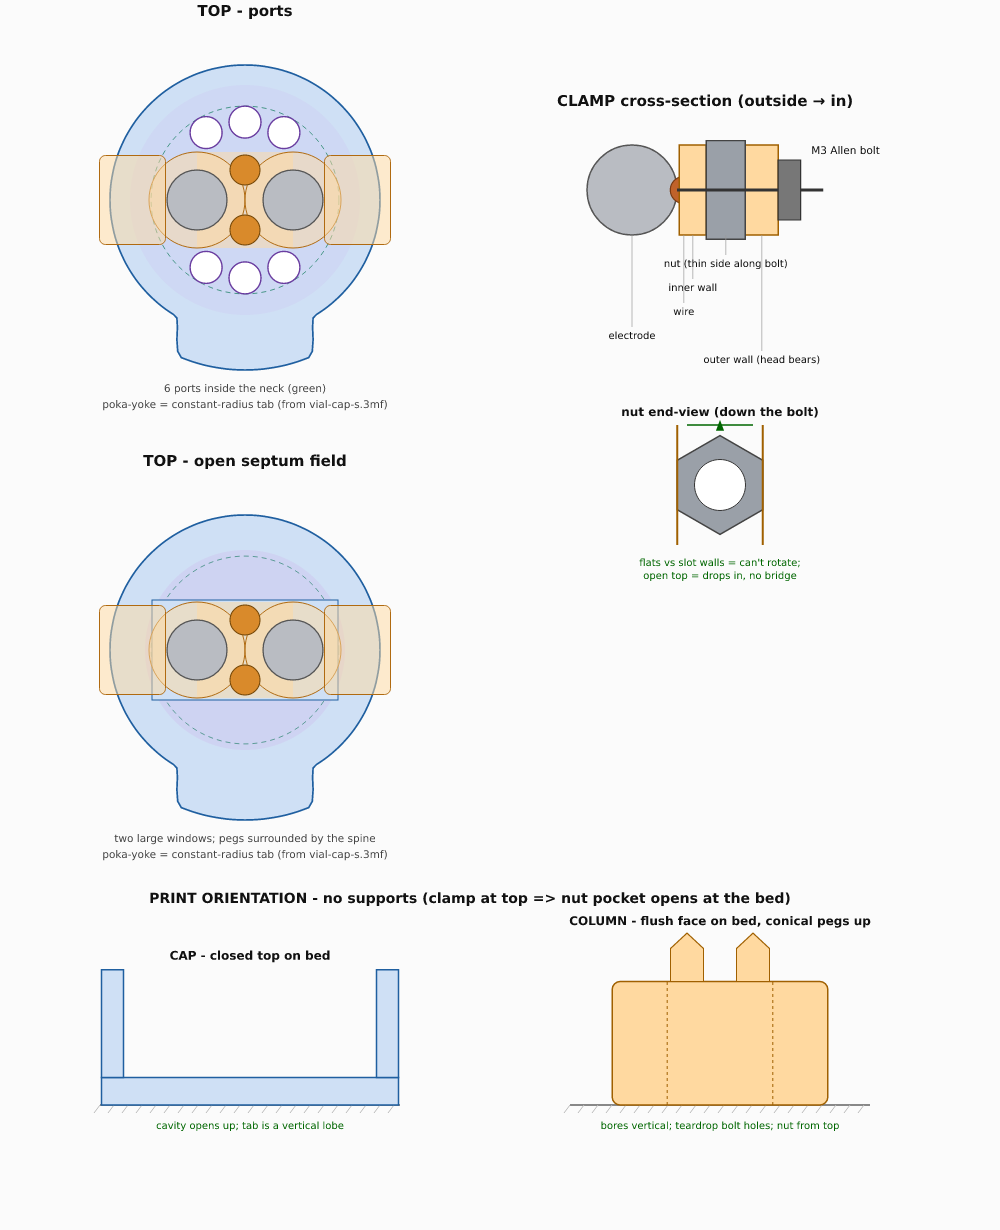
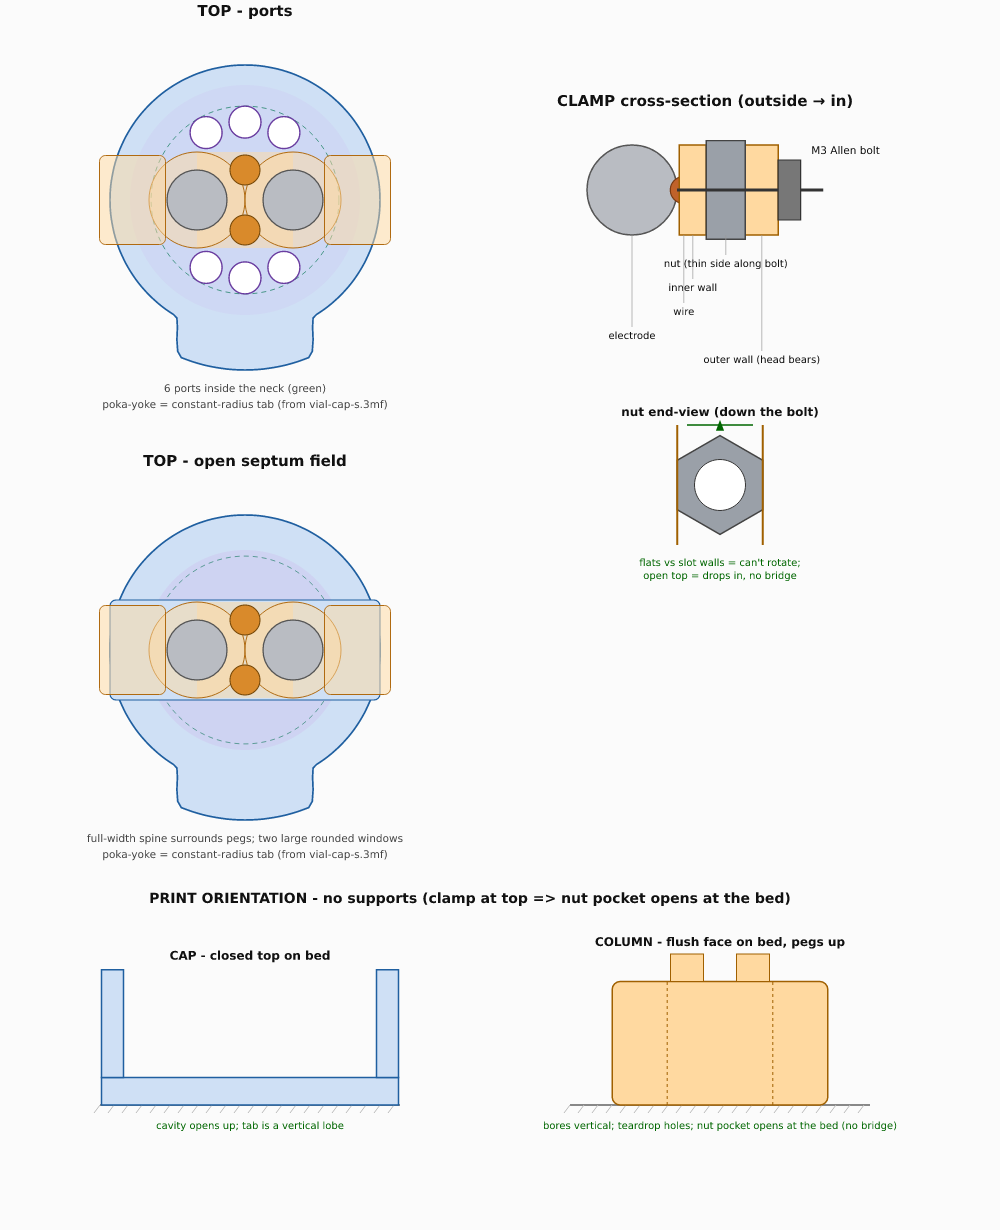
Add GPI thread + septum ridge; fix clamp/peg printability and fits
- Add the real GPI 24-400 BOSL2 thread (verbatim from Vial Cap.scad) and a
  chamfered inward ridge under the seat to retain the silicone septum.
- Clamp: ears now reach the top face so they land on the bed when printed;
  nut pocket opens downward-in-use (upward-in-print) so there is no bridge;
  inner edges flush with the body, outer end rounded.
- Pegs: plain, top_th deep, flush with the cap inside ceiling (no longer push
  the septum); conical tips dropped.
- Fits (point 8): cap_fit is a snug friction fit (cap grips the electrode);
  insert_extra is extra column clearance for easy insertion; column bore tracks
  cap_fit + insert_extra.
- Open style: full-width spine (no slivers), window corners rounded.
- Whole design audited for overhangs for support-free FDM (see README).
- Still needs an OpenSCAD render-check (thread/ridge/offset) - no binary here.

diff --git a/design-concept/make_figure.py b/design-concept/make_figure.py
@@ -54,7 +54,7 @@ def topview(cx,cy,style,title):
     g.circ(cx,cy,(18.7706/2)*s,stroke="#2a8f72",sw=1,dash="5 4")          # neck
     if style=="open":
         g.circ(cx,cy,(cap_R-2-1.5)*s,fill=SEPT,stroke="none",op=0.30)     # exposed septum field
-        g.rect(cx-9.3*s,cy-5*s,2*9.3*s,2*5*s,fill=CAP,stroke="#1f5fa0",sw=1.2) # x-spine keeps electrodes+pegs
+        g.rect(cx-cap_R*s,cy-5*s,2*cap_R*s,2*5*s,fill=CAP,stroke="#1f5fa0",sw=1.2,rx=6) # full-width x-spine
     else:
         g.circ(cx,cy,(cap_R-2)*s,fill=SEPT,stroke="none",op=0.18)
     # column bearing + rounded ears
@@ -68,7 +68,7 @@ def topview(cx,cy,style,title):
             r=math.radians(a); g.circ(cx+port_R*s*math.cos(r),cy-port_R*s*math.sin(r),port_rad*s,fill="#fff",stroke="#6a3da0",sw=1.4)
     for sgn in (-1,1): g.circ(cx+sgn*el_off*s,cy,el_d/2*s,fill=ELEC,stroke="#555",sw=1.3)
     for sgn in (-1,1): g.circ(cx,cy+sgn*peg_off*s,peg_r*s,fill=PEG,stroke="#7a4a08",sw=1.1)
-    note = "6 ports inside the neck (green)" if style=="ports" else "two large windows; pegs surrounded by the spine"
+    note = "6 ports inside the neck (green)" if style=="ports" else "full-width spine surrounds pegs; two large rounded windows"
     g.txt(cx,cy+tab_R*s+22,note,size=10.5,anchor="middle",fill="#444")
     g.txt(cx,cy+tab_R*s+38,"poka-yoke = constant-radius tab (from vial-cap-s.3mf)",size=10.5,anchor="middle",fill="#444")
 
@@ -123,11 +123,11 @@ g.txt(cx,bed+24,"cavity opens up; tab is a vertical lobe",size=10,anchor="middle
 cx=720; bedline(cx-150,cx+150); colh=24.7*11/2.2; endw=(el_off+5)*11
 g.rect(cx-endw,bed-colh,2*endw,colh,fill=CARR,stroke="#a06000",sw=1.5,rx=8)
 for hx in (-el_off,el_off): g.line(cx+hx*11,bed,cx+hx*11,bed-colh,stroke="#a06000",sw=1,dash="3 3")
-for sgn in (-1,1):  # conical pegs pointing up
+for sgn in (-1,1):  # pegs (short cylinders) pointing up, flush-depth = cap top thickness
     bxp=cx+sgn*peg_off*11
-    g.poly([(bxp-peg_r*11,bed-colh),(bxp+peg_r*11,bed-colh),(bxp+peg_r*11,bed-colh-3*11),(bxp,bed-colh-4.4*11),(bxp-peg_r*11,bed-colh-3*11)],fill=CARR,stroke="#a06000",sw=1.2)
-g.txt(cx,bed-colh-4.4*11-8,"COLUMN - flush face on bed, conical pegs up",size=12,anchor="middle",weight="bold")
-g.txt(cx,bed+24,"bores vertical; teardrop bolt holes; nut from top",size=10,anchor="middle",fill="#060")
+    g.rect(bxp-peg_r*11,bed-colh-2.5*11,2*peg_r*11,2.5*11,fill=CARR,stroke="#a06000",sw=1.2)
+g.txt(cx,bed-colh-2.5*11-8,"COLUMN - flush face on bed, pegs up",size=12,anchor="middle",weight="bold")
+g.txt(cx,bed+24,"bores vertical; teardrop holes; nut pocket opens at the bed (no bridge)",size=10,anchor="middle",fill="#060")
 
 out=(f'<svg xmlns="http://www.w3.org/2000/svg" width="{W}" height="{H}" viewBox="0 0 {W} {H}">'
      f'<rect width="{W}" height="{H}" fill="#fbfbfb"/>'+"".join(g.p)+"</svg>")

diff --git a/design-concept/README.md b/design-concept/README.md
@@ -27,26 +27,39 @@ Options (choices listed inline in the file):
 `part = "all" | "cap" | "column" | "septum"`,
 `port_style = "ports" | "open"`.
 
-The cap bore is a plain cylinder for fast, predictable rendering. **Production:**
-swap it for the GPI 24-400 BOSL2 thread block from the current
-`Components/Vial Cap/Vial Cap.scad` (marked in the file) — that part is unchanged.
+Requires BOSL2 (same as the current `Vial Cap.scad`) — the GPI 24-400 thread is
+the real one now.
 
 ## Design notes
 
+- **Thread + septum ridge.** Real GPI 24-400 internal thread (BOSL2, verbatim
+  from `Vial Cap.scad`). A small chamfered inward **ridge** under the seat keeps
+  the silicone septum from dropping out when the vial is removed.
 - **Poka-yoke** is the real Vial-Cap-S tab: a *constant-radius plateau* (outer
-  edge ~17 mm from centre, ~±28°) filleted into the cap, read off
-  `vial-cap-s.3mf` — not a circle stuck on the side.
-- **Ports** sit at the current cap's radius, `r = (cap_o_ring_id − port_dia)/2 ≈
-  7.785 mm`, inside the vial neck. Electrode holes use the *same* fit as the
-  column bore (no longer looser).
-- **Clamp** is the correct captive-nut stack, outside-in: Allen bolt → **outer
-  wall** → **non-rotating nut** (drops into a top-opening pocket, thin side along
-  the bolt) → **inner wall** → wire pinched on the electrode. Pushed to the top of
-  the column and rounded, with thicker PC-CF walls than the current part (which
-  Grace cracked by over-torquing).
-- **Open port style** keeps an x-spine that carries the electrodes and fully
-  surrounds the pegs, leaving two large septum windows.
-- **Pegs** have conical lead-in tips so they print support-free point-up.
+  edge ~17 mm from centre, ~±28°) filleted into the cap, read off `vial-cap-s.3mf`.
+- **Fits** (two parameters): `cap_fit` is a snug friction fit so the **cap** grips
+  the electrode; `insert_extra` is the additional clearance in the **column** for
+  easy insertion (the bolts do the holding there). Column bore = `cap_fit +
+  insert_extra`, so tuning `cap_fit` moves both together.
+- **Ports** at `r = (cap_o_ring_id − port_dia)/2 ≈ 7.785 mm`, inside the neck.
+- **Clamp** (outside-in): Allen bolt → **outer wall** → **non-rotating nut** (thin
+  side along the bolt) → **inner wall** → wire pinched on the electrode. Sits at
+  the top face so it lands on the bed when printed; the nut pocket opens
+  downward-in-use (upward-in-print) so there's no bridge. Robust PC-CF walls.
+- **Open port style** keeps a **full-width** x-spine that carries the electrodes
+  and fully surrounds the pegs, leaving two large septum windows with **rounded
+  corners** (no sharp dirt traps).
+- **Pegs** are plain, `top_th` deep, so they sit flush with the cap's inside
+  ceiling and don't push the septum.
+
+## Print check (no supports)
+
+Cap (closed-top-down): cavity opens up; thread, ports, peg holes all vertical;
+septum ridge is a ≤45° barb; tab is a vertical lobe. Column (flush-face-down,
+pegs up): bores vertical; clamp ears reach the bed; nut pocket and wire slot open
+upward-in-print; bolt holes teardropped. **Render-check** the BOSL2 thread, the
+ridge, and the `offset()` tab/windows when you open it — there's no OpenSCAD in
+the dev box to do it here.
 
 ## The design problem (and the one idea that reframed it)
 
